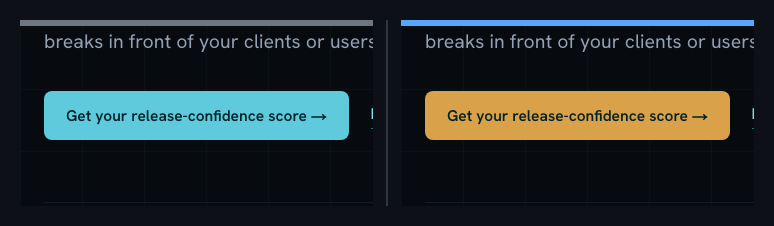
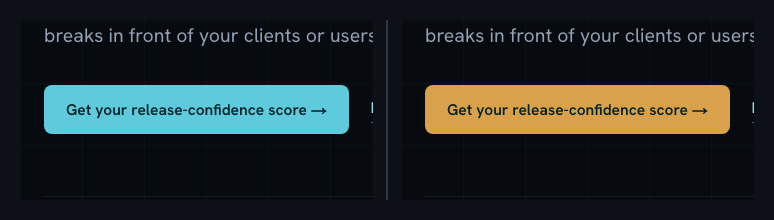
docs: report example + any-styling-system + certify sections; sharper tagline (#11)
* docs: lead with the value, add a report example + refactor/any-system sections

- package.json description: lead with the outcome (review PRs + certify
  refactors by computed styles, not pixels; works with any styling system)
  instead of "Certify CSS refactors…", which buried the primary use.
- README: add "What a report looks like" (the cyan→amber CTA composite +
  the rendered new-format markdown), "Works with any styling system" (computed
  styles + DOM-structure keys, so Tailwind/CSS-Modules/styled-components/Sass/
  vanilla all work), and a fuller "Certify a refactor" section (the byte-
  identical fail-on-diff mode, the migration use it was born for).

* fix(report): drop the before/after accent strips from the composite

The composite drew a grey strip over the before crop and a blue strip over the
after crop as a font-free before/after cue. But a strip that differs between the
two sides reads as a *second* change in the pair — so a one-property diff looked
like two things changed. Remove the strips: the only thing that differs across
the composite is now the actual change. Before/after stays conveyed by position
(left = before) and the caption under the image.

- src/report.ts: compositePair drops the BAR strips; crops sit at PAD, the
  neutral divider spans the crop height.
- test: expected composite height 226 -> 220 (no 6px strip band).
- docs/demo-composite.png: regenerated strip-free (the README example).
- CHANGELOG: note under Unreleased.
[…]

diff --git a/src/report.ts b/src/report.ts
@@ -145,28 +145,26 @@ function fillRect(png: PNG, x: number, y: number, w: number, h: number, [r, g, b
 }
 
 /**
- * One labelled before|after image: the two equal-size crops on a dark canvas,
- * a divider between them, and a top accent bar per side (grey = before,
- * blue = after) as a font-free before/after cue. Left is always before.
+ * One before|after image: the two equal-size crops on a dark canvas with a
+ * neutral divider between them. Left is always before; before/after is labelled
+ * by the caption under the image. The divider is identical on both sides, so the
+ * ONLY thing that differs across the pair is the actual change — no extra chrome
+ * (e.g. a coloured accent strip) that reads as a second diff.
  */
 function compositePair(before: PNG, after: PNG): PNG {
   const PAD = 20;
   const GAP = 28;
-  const BAR = 6; // accent strip height
   const w = Math.max(before.width, after.width);
   const h = Math.max(before.height, after.height);
   const width = PAD + w + GAP + w + PAD;
-  const height = PAD + BAR + h + PAD;
+  const height = PAD + h + PAD;
   const canvas = new PNG({ width, height });
   fillRect(canvas, 0, 0, width, height, [13, 17, 23]); // GitHub dark
   const leftX = PAD;
   const rightX = PAD + w + GAP;
-  const top = PAD + BAR;
-  fillRect(canvas, leftX, PAD, w, BAR, [110, 118, 129]); // before: grey
-  fillRect(canvas, rightX, PAD, w, BAR, [88, 166, 255]); // after: blue
-  PNG.bitblt(before, canvas, 0, 0, before.width, before.height, leftX, top);
-  PNG.bitblt(after, canvas, 0, 0, after.width, after.height, rightX, top);
-  fillRect(canvas, PAD + w + GAP / 2 - 1, PAD, 2, BAR + h, [48, 54, 61]); // divider
+  PNG.bitblt(before, canvas, 0, 0, before.width, before.height, leftX, PAD);
+  PNG.bitblt(after, canvas, 0, 0, after.width, after.height, rightX, PAD);
+  fillRect(canvas, PAD + w + GAP / 2 - 1, PAD, 2, h, [48, 54, 61]); // divider
   return canvas;
 }
 

diff --git a/README.md b/README.md
@@ -18,7 +18,32 @@ On every PR, StyleProof captures a `StyleMap` from the HEAD and from the base br
 - An **approval checkbox per change**, driving a `StyleProof` commit status: red until every change is signed off, green when there are none.
 - No committed baseline to maintain — the diff is HEAD-vs-base, so the report is _exactly what this PR changes_.
 
-A second mode certifies a refactor changed _nothing_: any diff fails the job (use it for CSS-to-Tailwind migrations, design-system swaps, build-tooling changes).
+## What a report looks like
+
+One change — the hero CTA recoloured cyan → amber — posts as a single section: a side-by-side before/after cropped screenshot, a one-line summary, then the exact property change folded under a toggle.
+
+![A StyleProof report: the CTA button before (cyan) and after (amber), side by side](docs/demo-composite.png)
+
+As it renders in the PR comment (colours become live swatches; the full table sits inside the toggle):
+
+```text
+### `a.btn-solid` · 1 element restyled
+_landing @ 1280_
+
+`background-color` `rgb(95, 202, 219)` → `rgb(245, 158, 11)`
+
+▾ Show the property change
+   | Property         | Before            | After             |
+   | background-color | rgb(95, 202, 219) | rgb(245, 158, 11) |
+```
+
+## Works with any styling system
+
+StyleProof reads the browser's **computed styles** — the values it actually resolves — never your source CSS. Tailwind, CSS Modules, styled-components, Sass, vanilla CSS, inline styles: all produce the same computed output, and that's what it diffs. Elements are keyed by **DOM structure, not class name**, so a refactor that rewrites every `class` still lines up element-for-element.
+
+## Certify a refactor
+
+The same engine has a second mode that proves a change touched _nothing_ visual: with `fail-on-diff: true`, any difference at all fails the job. It's the job StyleProof was born for — certifying a CSS-to-Tailwind migration rendered byte-for-byte identical. Reach for it on any change whose whole promise is "the output is unchanged": a utility-class migration, a design-system swap, a dependency or build-tooling bump. Zero diff is the contract; one drifting longhand is a regression to investigate, not a change to approve.
 
 ## Install
 

diff --git a/CHANGELOG.md b/CHANGELOG.md
@@ -7,6 +7,16 @@ this project adheres to [Semantic Versioning](https://semver.org/spec/v2.0.0.htm
 
 ## [Unreleased]
 
+## [1.3.1]
+
+### Changed
+
+- The before/after composite no longer draws coloured accent strips (grey for
+  before, blue for after) above each crop. They were a font-free before/after
+  cue, but a strip that differs between the two sides reads as a _second_ change
+  in the pair. Now the only thing that differs across the composite is the actual
+  change; before/after stays conveyed by position (left = before) and the caption.
+
 ## [1.3.0]
 
 Clearer reports: one section per screenshot.